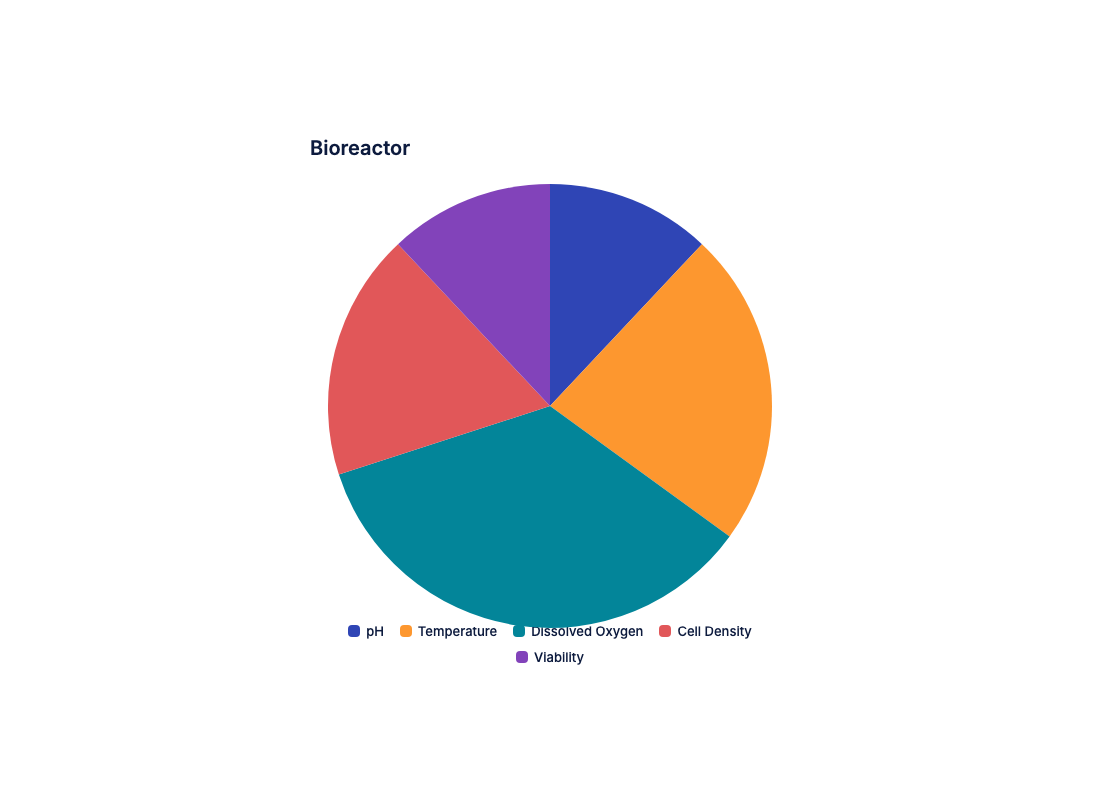
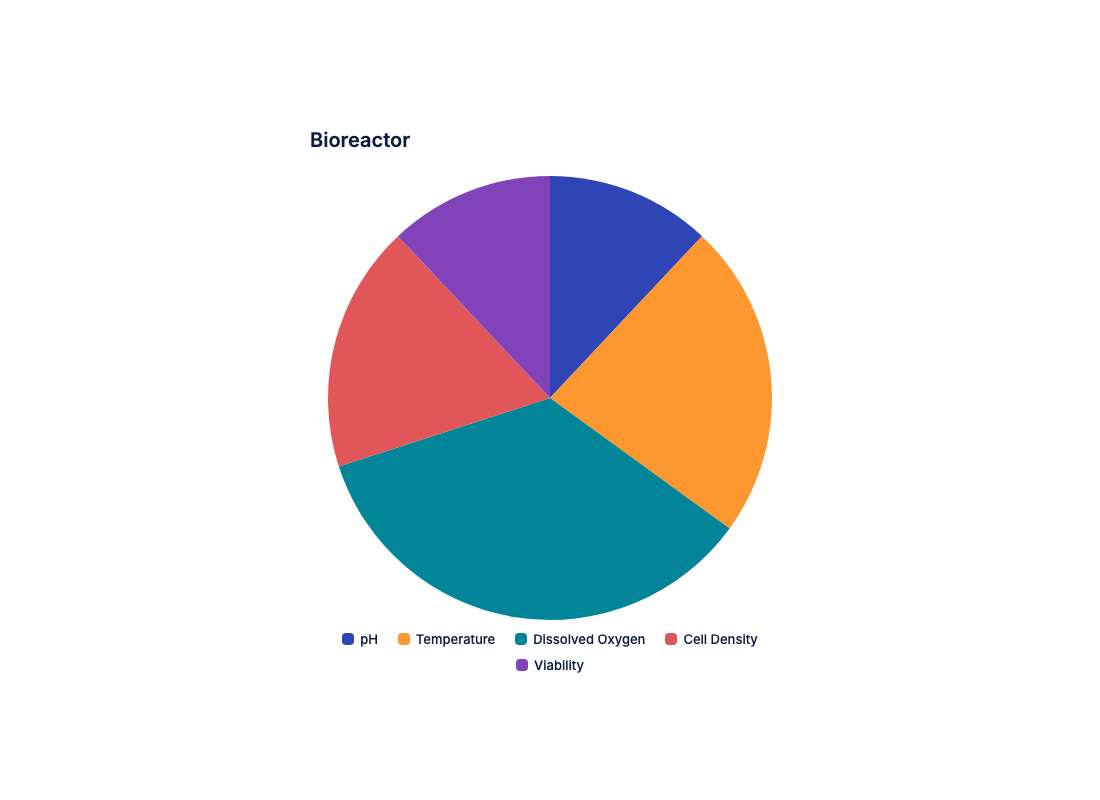
fix: UXT-251 Space the pie legend and start the plate colour bar at the plate
- The pie legend sits further below the pie, with more room between entries.
- A side colour bar on a titled plate map drops below the headline, so it
  starts level with the wells and not with the title.

diff --git a/src/components/composed/Chart/kinds/PlateMap.tsx b/src/components/composed/Chart/kinds/PlateMap.tsx
@@ -38,6 +38,8 @@ export { DEFAULT_CATEGORY_COLORS } from "@/components/charts/PlateMap/constants"
 const COLOUR_BAR_SAMPLES = 16;
 const COLOUR_BAR_THICKNESS = 16;
 const COLOUR_BAR_PLOT_RATIO = 0.8;
+/** Height the chart's headline takes above the plate. A side colour bar drops by it to start level with the wells. */
+const PLATE_HEADLINE_HEIGHT = 24;
 const COLOUR_LABEL_WIDTH = 72;
 
 interface PlateColourBarProps {
@@ -50,13 +52,15 @@ interface PlateColourBarProps {
   /** Length of the bar in pixels, along its own direction. */
   length: number;
   vertical: boolean;
+  /** Pixels to drop the bar by, so it starts level with the plate and not with the headline above it. */
+  offsetTop: number;
 }
 
 /**
  * The colour bar a heatmap plate reads by. Drawn here rather than by ts-lib-viz, which only
  * lays its colour bar out horizontally. Vertical, it runs beside the plate with its labels.
  */
-function PlateColourBar({ ramp, min, max, breaks, labels, title, length, vertical }: PlateColourBarProps) {
+function PlateColourBar({ ramp, min, max, breaks, labels, title, length, vertical, offsetTop }: PlateColourBarProps) {
   const span = max - min || 1;
   const gradient = Array.from({ length: COLOUR_BAR_SAMPLES + 1 }, (_, index) => {
     const t = index / COLOUR_BAR_SAMPLES;
@@ -72,7 +76,13 @@ function PlateColourBar({ ramp, min, max, breaks, labels, title, length, vertica
   return (
     <div
       className="platemap-colour-bar"
-      style={{ display: "flex", flexDirection: "column", alignItems: "flex-start", fontSize: 12 }}
+      style={{
+        display: "flex",
+        flexDirection: "column",
+        alignItems: "flex-start",
+        fontSize: 12,
+        marginTop: offsetTop,
+      }}
     >
       {title && <div style={{ marginBottom: 4 }}>{title}</div>}
       <div style={{ display: "flex", flexDirection: vertical ? "row" : "column", gap: 6 }}>
@@ -574,6 +584,7 @@ const PlateMapChart: React.FC<PlateMapProps> = ({
       title={legendTitle}
       length={barVertical ? Math.round(height * COLOUR_BAR_PLOT_RATIO) : Math.round(width * COLOUR_BAR_PLOT_RATIO)}
       vertical={barVertical}
+      offsetTop={barVertical && title ? PLATE_HEADLINE_HEIGHT : 0}
     />
   ) : null;
   const legendContent = renderLegend();

diff --git a/src/components/composed/Chart/kinds/PieChart.tsx b/src/components/composed/Chart/kinds/PieChart.tsx
@@ -76,7 +76,7 @@ function PieLegend({ labels, colors }: { labels: string[]; colors: string[] }) {
   return (
     <div
       data-slot="pie-legend"
-      className="flex w-full flex-wrap items-center justify-center gap-x-4 gap-y-2 px-4 pt-2 text-foreground"
+      className="flex w-full flex-wrap items-center justify-center gap-x-5 gap-y-2 px-4 pt-6 text-foreground"
     >
       {labels.map((label, index) => (
         <div key={`${label}-${index}`} className="flex items-center text-[13px] leading-[18px] font-medium">
